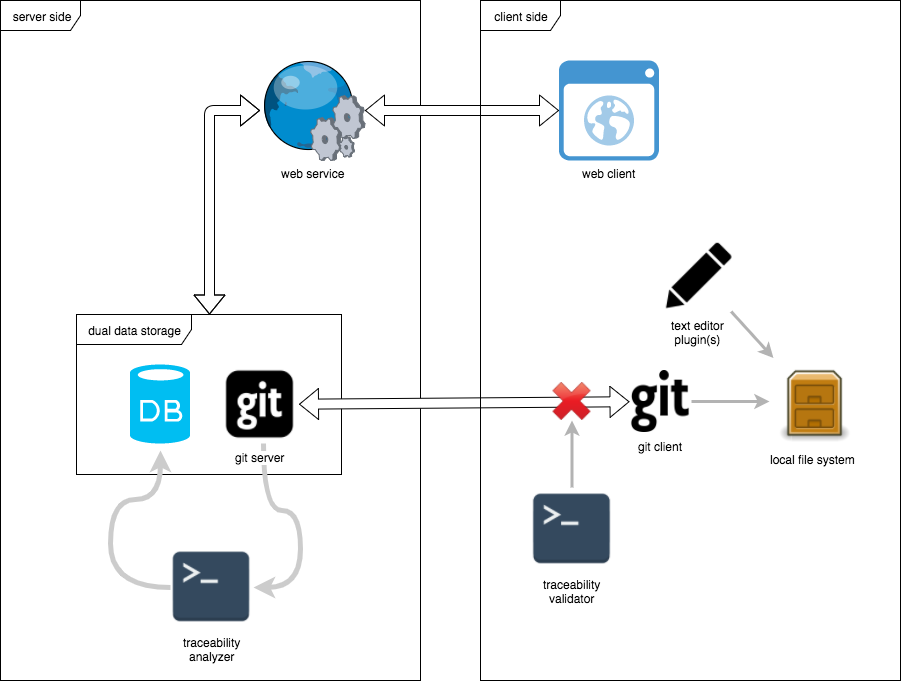
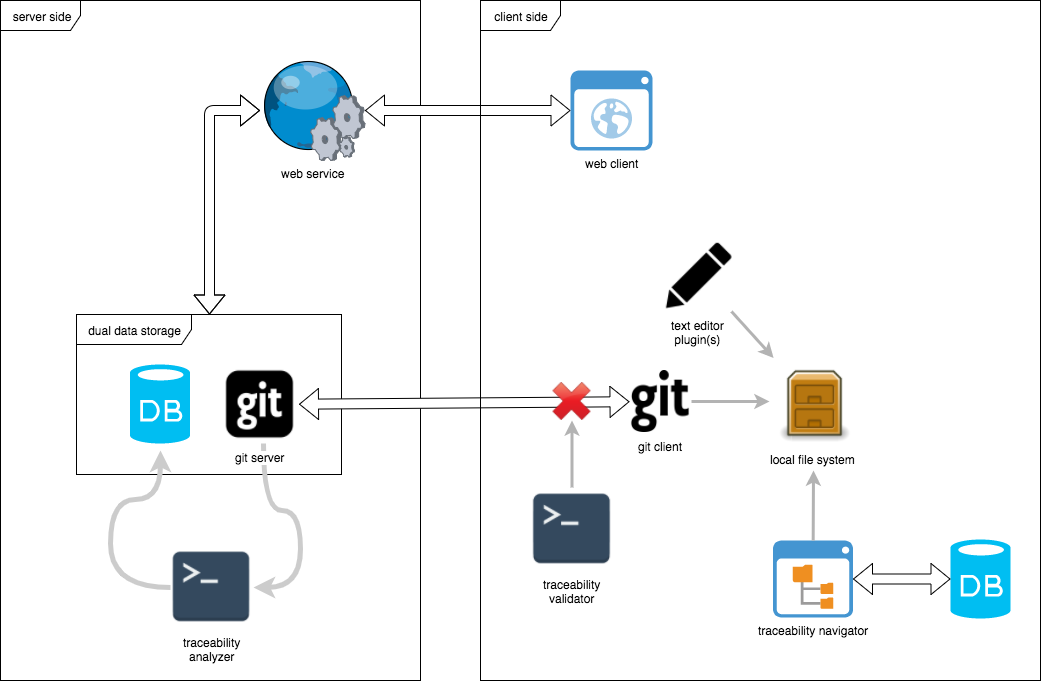
Dependency

diff --git a/doc/architecture/SyAD.md b/doc/architecture/SyAD.md
@@ -64,7 +64,7 @@ Or they may be saved in a separated database (GitHub, BitBucket, GitLab, ... all
 Comparison of version control platforms for satisfying our targeting functional requirements:
 
 |            | Concurrent versions system (CVS) | Subversion (SVN) | git        |
-| ---------- | -------------------------------- | ---------------- | --- |
+| ---------- | -------------------------------- | ---------------- | ---------- |
 | Regular backups by authors |  |  | Done as a series of commits in a separated branch |
 | Pending changes/different opinions |  |  | Different branch |
 | To-be-reviewed draft |  |  | Pull request from a different branch |
@@ -247,9 +247,24 @@ We'll not implement the microservices at this moment, but will choice the one se
 
 ## Dependency description
 
-*(TODO: (beside what normally should be in here) (1) check the dependency of each single feature -- which one works only if some other feature is on (2) technic how to achieve that. This is most on the higher level, while common downstream item (designed as a feature of this product) is for the lower level.)*
-
 ### Intermodule dependencies
+
+Since user may only want to use part of the features provided by this software, we want to make different features as independent as possible. Here is the dependency between key features:
+
+![](feature_dependency.png "")
+
+Here maps the key features to the existing modules:
+
+|                                 | review only  | traceability only | review and traceability |
+| ------------------------------- | ------------ | ----------------- | ----------------------- |
+| Text editor plugin              |              | X                 |                         |
+| (client) traceability navigator |              | X                 |                         |
+| (client) traceability validator |              |                   |                         |
+| (client) git                    | X            |                   |                         |
+| (server) traceability analyzer  |              |                   |                         |
+| (server) git                    | X            |                   |                         |
+| (server) database               | X            |                   |                         |
+| web service                     | X            |                   |                         |
 
 ### Interprocess dependencies
 
